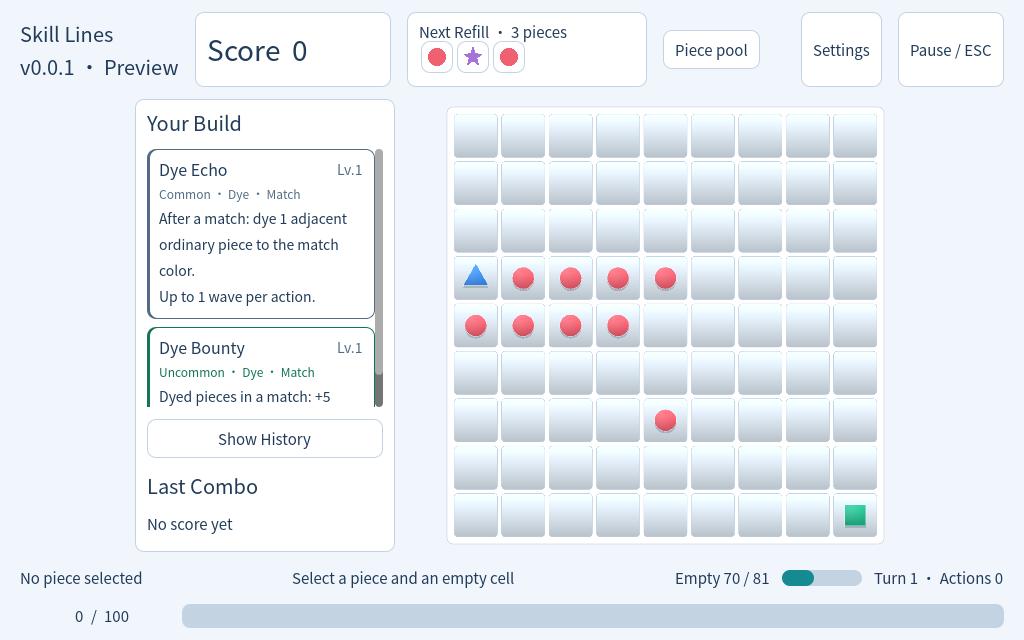
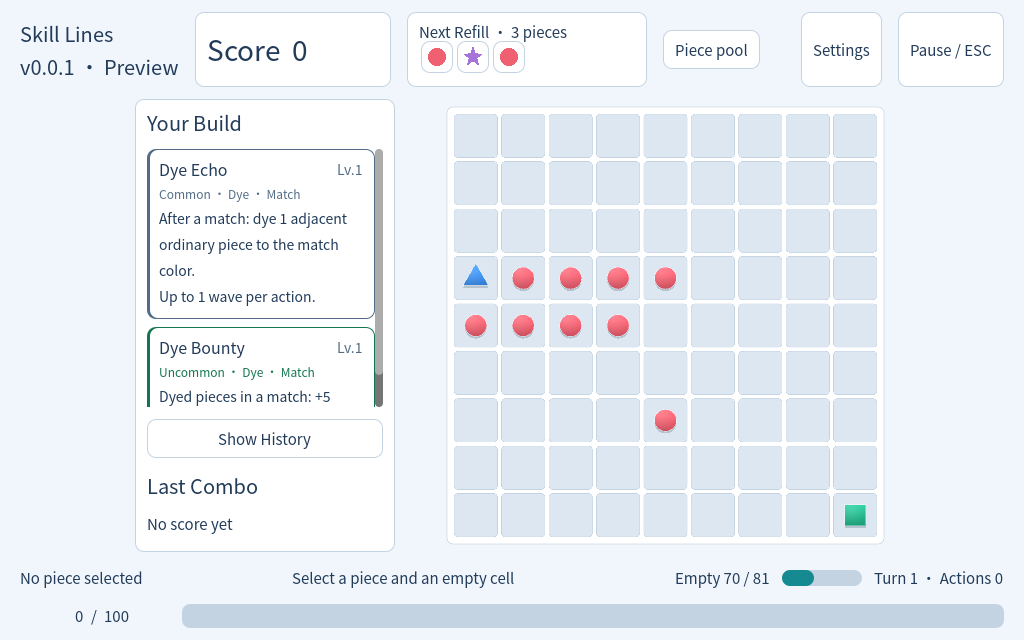
移除棋盘格渐变改用纯色哑光底 (#29)

diff --git a/docs/game_themes.md b/docs/game_themes.md
@@ -21,6 +21,8 @@
 
 ## 实机对照与 review
 
+棋盘材质修订：格子统一使用纯色哑光底与细边缘，移除纵向明暗渐变，避免凸起按钮观感。颜色、圆角及选中/路径反馈仍由主题配置；棋子的材质参数独立保留。
+
 试玩反馈修订：补回顶部总分/补棋预告、左信息栏和棋盘的底板与细边框；按钮在未聚焦时也有1px轮廓，技能卡普通态1px、选中态2px，保留顶部稀有度色条。HUD面板通过场景的 `HudPanel` 主题类型变体选择样式；棋盘底板由 BoardView 在棋子下方绘制，避免高层 HUD 遮挡棋子。以下截图已更新。相关主题/布局/选卡/HUD回归31项通过，包括两主题普通态框体断言。
 
 截图来自 Compatibility 渲染，主界面种子7、`fixture_dye`；特殊状态使用 `fixture_line_cross`。都是确定性展示夹具，不能作为真人平衡数据。截图工具：`tools/ux_capture/game_theme_capture.tscn`，输出 `.godot/issue29_captures`，不参与正式导出。
